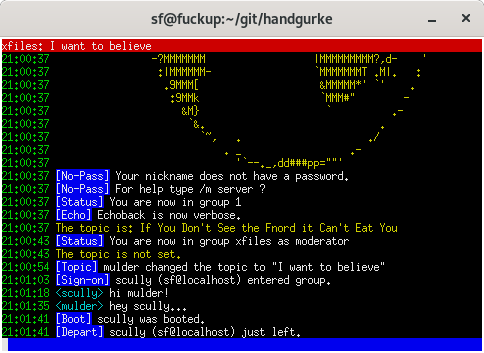
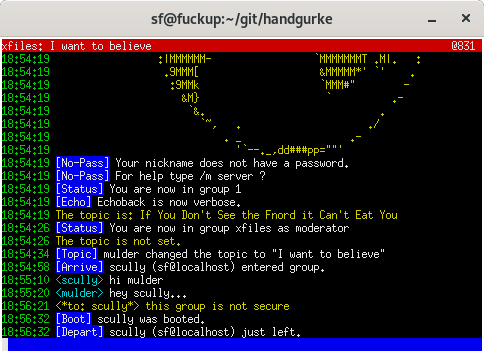
updated README

diff --git a/README.md b/README.md
@@ -8,4 +8,8 @@ You need at least Python 3.5 to start the client.
 
 Enter /quit to leave the program.
 
+Killer features:
+* color
+* displays [Swatch Internet Time](https://www.swatch.com/en\_us/internet-time/)
+
 ![alt text](media/xterm.png "xterm")
